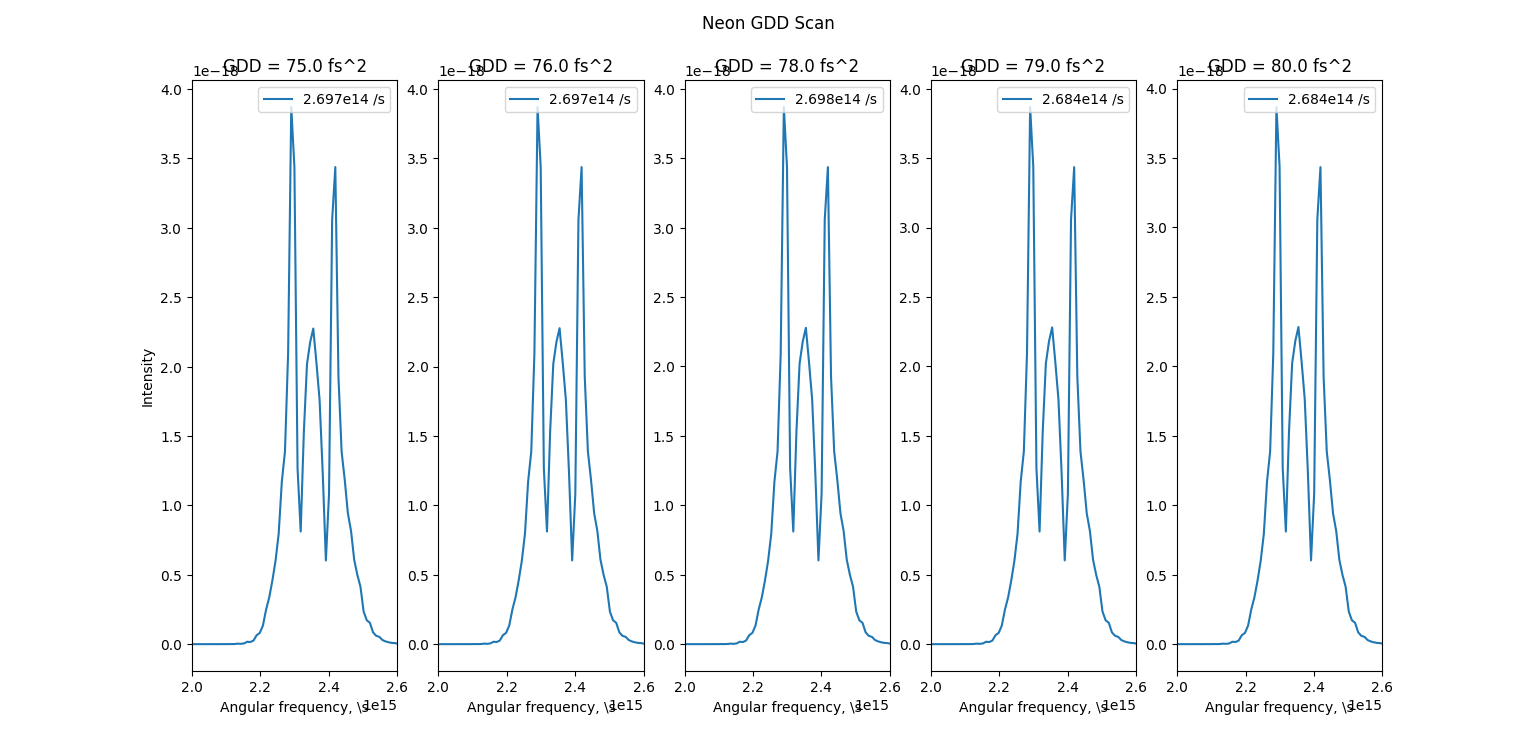
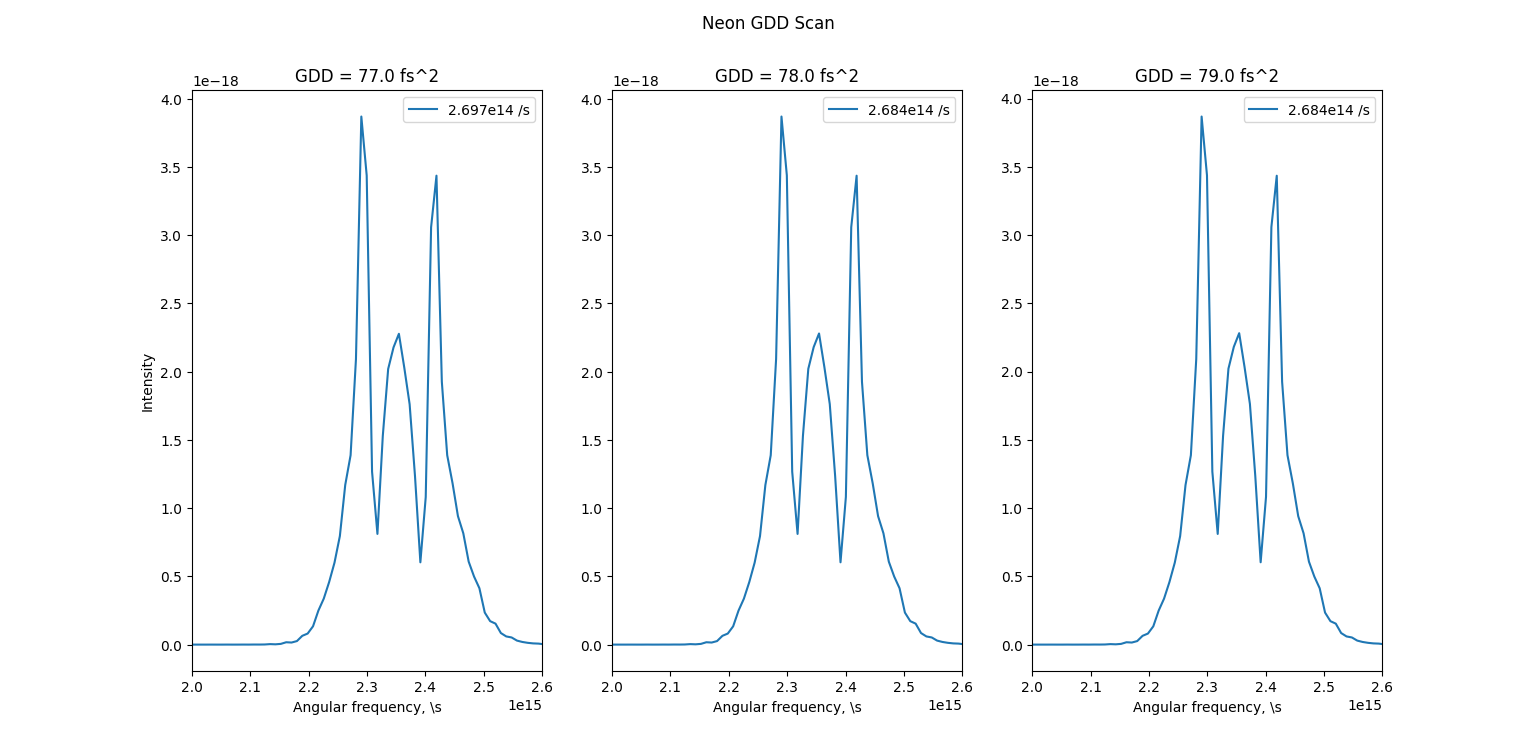
GDD widths around jump

diff --git a/HCF sim/Python/building_datasets/custom_input/GDD_vs_rms_width.py b/HCF sim/Python/building_datasets/custom_input/GDD_vs_rms_width.py
@@ -28,7 +28,7 @@ wavel = 800e-9
 domega = (0.44/τfwhm)*2*np.pi
 omega = np.linspace(2*np.pi*c/wavel - domega/2, 2*np.pi*c/wavel + domega/2, 100)
 #GDDs = np.linspace(-500*(10**-30), 500*(10**-30), 100) #GDD in s^2
-GDDs = np.linspace(75*(10**-30), 80*(10**-30), 5) #GDD in s^2
+GDDs = np.array([77*(10**-30), 78*(10**-30), 79*(10**-30)]) #GDD in s^2
 Main.energy = energy
 Main.λ0 = wavel
 
@@ -45,7 +45,7 @@ Main.eval("gas = Symbol(gas_str)")
 Main.pressure = pressure
 
 widths=np.array([])
-f, axs = plt.subplots(1,5)
+f, axs = plt.subplots(1,3)
 f.suptitle('Neon GDD Scan')
 plt.setp(axs, xlabel='Angular frequency, \s')
 plt.setp(axs[0], ylabel='Intensity')
